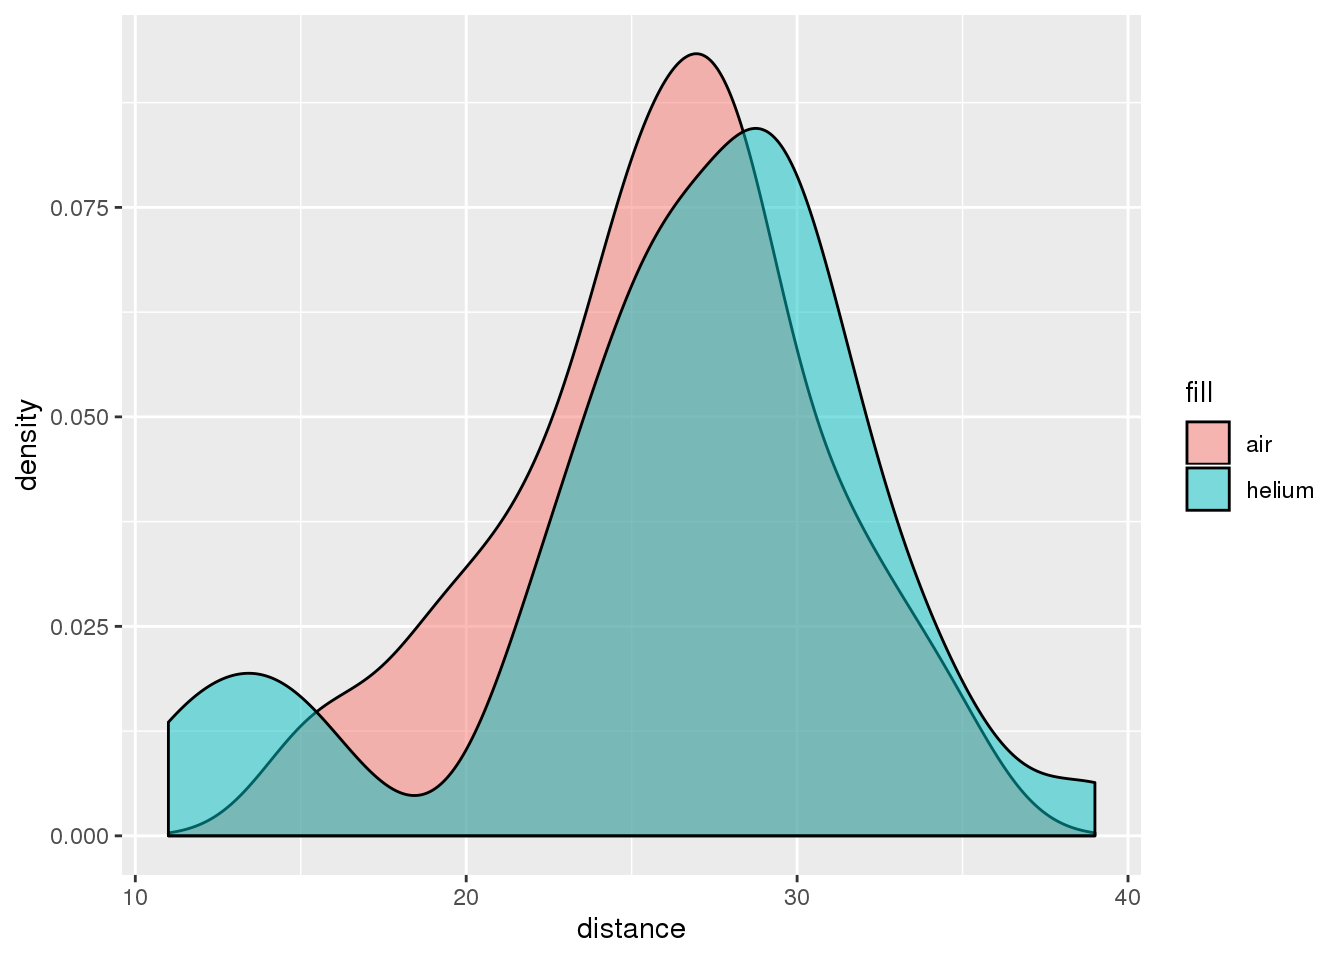
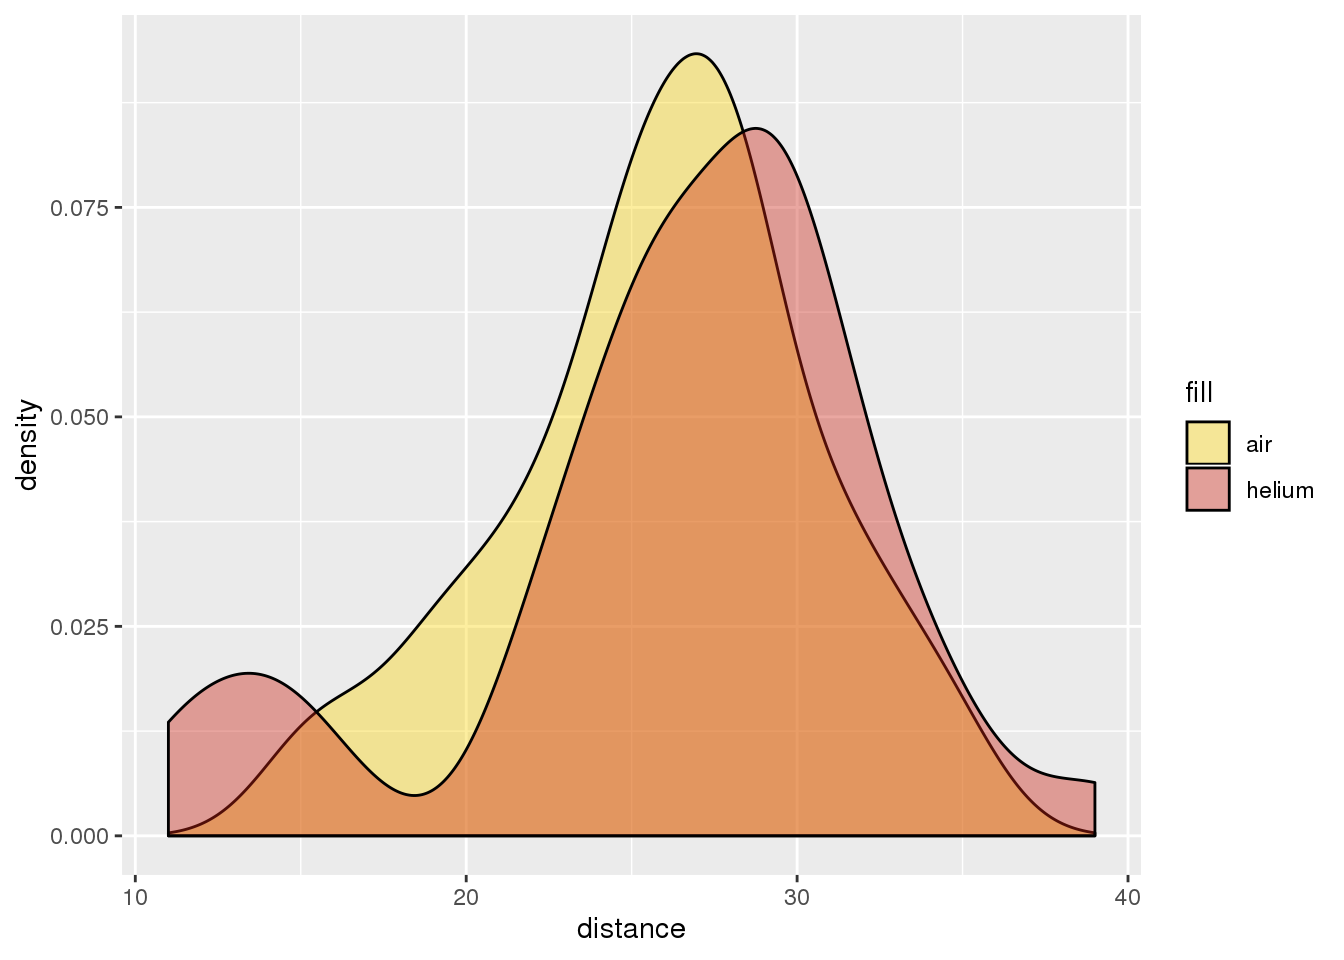
update to my first post

Changed region(s): [[0.125, 0.0625, 0.8125, 0.875], [0.875, 0.4375, 0.9375, 0.5312]]

diff --git a/content/post/2020-12-02-my-first-post/index.html b/content/post/2020-12-02-my-first-post/index.html
@@ -11,10 +11,16 @@ tags: [R, blogdown]
 <script src="index_files/anchor-sections/anchor-sections.js"></script>
 
 
-<p>My First Post</p>
+<div id="my-first-post-an-odd-graph" class="section level1">
+<h1>My First Post, an Odd Graph</h1>
+<p>After the 1976 Pro Bowl, where people questions if the football was filled with helium, some intrepid Ohio State students investigated whether a football filled with helium woud fly farther than one filled with air. Their results are displayed in the density plot below.</p>
 <pre class="r"><code>library(tidyverse)
-library(openintro)</code></pre>
+library(openintro)
+library(wesanderson)</code></pre>
 <pre class="r"><code>data(&quot;helium&quot;)
 helium2 &lt;- helium %&gt;% pivot_longer(c(air, helium), names_to = &quot;fill&quot;, values_to = &quot;distance&quot;)
-helium2 %&gt;% ggplot(aes(distance, fill = fill)) + geom_density(alpha = .5)</code></pre>
+helium2 %&gt;% ggplot(aes(distance, fill = fill)) + 
+  geom_density(alpha = .4) +
+  scale_fill_manual(values = wes_palette(&quot;BottleRocket2&quot;, n =2))</code></pre>
 <p><img src="index_files/figure-html/unnamed-chunk-2-1.png" width="672" /></p>
+</div>
